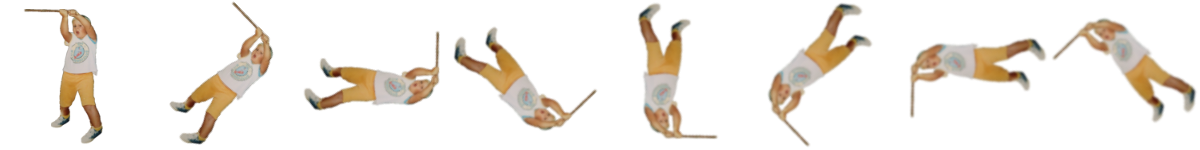
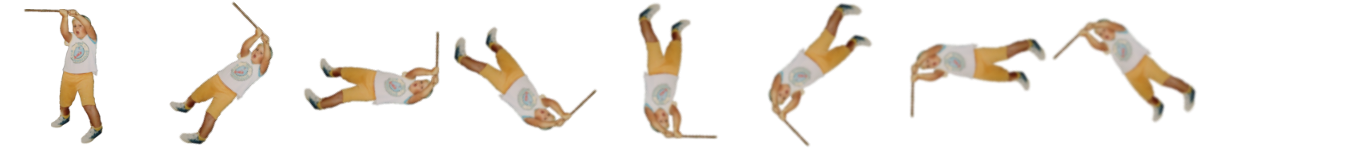
player blinks when invincible, speed increases as game progresses

Changed region(s): [[0.1233, 0.0267, 1.0, 0.96], [0.0, 0.0533, 0.0925, 0.96], [0.74, 0.6133, 0.7708, 0.7733]]

diff --git a/lib/player.js b/lib/player.js
@@ -17,35 +17,36 @@
     this.candies = 0;
     this.lives = 5;
     this.frame = 0;
+    this.maxSpeed = 4;
 
     this.power = function(impulse) {
        switch(impulse) {
         case 'up':
-          if (this.vel[1] > -8 && this.vel[1] <= 0) {
-            this.vel[1] += -2;
+          if (this.vel[1] > -(this.maxSpeed) && this.vel[1] <= 0) {
+            this.vel[1] += -(this.maxSpeed/4.0);
           } else if (this.vel[1] > 0) {
-            this.vel[1] += -4;
+            this.vel[1] += -(this.maxSpeed/2);
           }
           break;
         case 'down':
-          if (this.vel[1] < 8 && this.vel[1] >= 0) {
-            this.vel[1] += 2;
+          if (this.vel[1] < this.maxSpeed && this.vel[1] >= 0) {
+            this.vel[1] += (this.maxSpeed/4.0);
           } else if (this.vel[1] < 0) {
-            this.vel[1] += 4;
+            this.vel[1] += (this.maxSpeed/2);
           }
           break;
         case 'left':
-          if (this.vel[0] > -8 && this.vel[0] <= 0) {
-            this.vel[0] += -2;
+          if (this.vel[0] > -this.maxSpeed && this.vel[0] <= 0) {
+            this.vel[0] += -(this.maxSpeed/4.0);
           } else if (this.vel[0] > 0) {
-            this.vel[0] += -4;
+            this.vel[0] += -(this.maxSpeed/2);
           }
           break;
         case 'right':
-          if (this.vel[0] < 8 && this.vel[0] >= 0) {
-            this.vel[0] += 2;
+          if (this.vel[0] < this.maxSpeed && this.vel[0] >= 0) {
+            this.vel[0] += (this.maxSpeed/4.0);
           } else if (this.vel[0] < 0) {
-            this.vel[0] += 4;
+            this.vel[0] += (this.maxSpeed/2);
           }
           break;
       }
@@ -55,19 +56,34 @@
       if (this.candies >= 2) {
         this.spin();
         this.swinging = true;
-        var player = this;
-        setTimeout(function() { player.swinging = false; }, 1000);
         this.candies -= 2;
+        var player = this;
+        setTimeout(function() {
+          player.swinging = false;
+          player.game.giveCandies();
+        }, 401);
       }
     };
     
     this.spin = function() {
       var player = this;
       var increaseFrame = function() {
-          player.frame = (player.frame + 1) % 8;
-        };
-      for (i = 0; i < 16; i++){
-        setTimeout(increaseFrame, (50 * i));
+        player.frame = (player.frame + 1) % 8;
+      };
+      for (var i = 0; i < 16; i++){
+        setTimeout(increaseFrame, (25 * i));
+      }
+    };
+    
+    this.blink = function() {
+      var player = this;
+      var j = 0;
+      var setFrame = function() {
+        j++;
+        player.frame = 9 * (j%2);
+      };
+      for (var i = 0; i < 16; i++){
+        setTimeout(setFrame, (200 * i));
       }
     };
 
@@ -75,6 +91,8 @@
       if (this.swinging) {
         pinata.remove();
         this.game.addCandies(2);
+        this.maxSpeed += 2;
+        this.game.increaseSpeed();
       } else if (!this.invincible) {
         this.die();
       }
@@ -90,6 +108,10 @@
       this.vel = [0,0];
       this.makeInvincible();
       this.lives--;
+      if (this.candies > 0) {
+        this.candies--;
+      }
+      this.game.giveCandies();
       if (this.lives <= 0) {
         this.game.gameOver = true;
       }
@@ -97,7 +119,7 @@
 
     this.makeInvincible = function() {
       this.invincible = true;
-      // this.blink();
+      this.blink();
       var player = this;
       setTimeout(function() { player.invincible = false; }, 3000 );
     };

diff --git a/lib/game.js b/lib/game.js
@@ -10,6 +10,7 @@
     this.player = new Pinatas.Player({ pos: [this.DIM_X/2, this.DIM_Y/2], vel: [0,0], game: this });
     this.pinatas = [];
     this.candies = [];
+    this.pendingCandies = 0;
     this.addPinatas();
     this.addCandies(2);
     this.gameOver = false;
@@ -22,14 +23,35 @@
   };
   
   Game.prototype.addCandies = function(n) {
-    for(i = 0; i < n; i++) {
+    for(var i = 0; i < n; i++) {
       this.candies.push(new Pinatas.Candy({ pos: this.randomPosition(), game: this }));
     }
   };
-
+  
+  Game.prototype.increaseSpeed = function() {
+    for (var i = 0; i < this.pinatas.length; i++) {
+      this.pinatas[i].vel[0] *= 1.5;
+      this.pinatas[i].vel[1] *= 1.5;
+    }
+  };
+  
+  Game.prototype.giveCandies = function() {
+    var allCandies = this.candies.length + this.player.candies + this.pendingCandies;
+    if (allCandies < 2) {
+      this.pendingCandies = 2 - allCandies;
+      var game = this;
+      var addCandies = function () {
+        game.addCandies(1);
+        game.pendingCandies -= 1;
+      };
+      for (var q = 1; q <= this.pendingCandies; q++) {
+        setTimeout(addCandies, 5000 * q);
+      }
+    }
+  };
 
   Game.prototype.allObjects = function() {
-    return this.pinatas.concat(this.candies).concat([this.player]);
+    return this.candies.concat(this.pinatas).concat([this.player]);
   };
 
   Game.prototype.checkCollisions = function() {

diff --git a/lib/gameView.js b/lib/gameView.js
@@ -11,17 +11,19 @@
   };
 
   GameView.prototype.start = function() {
-    var gameView = this;
+    var game = this.game;
+    var drawing = this.drawing;
     this.bindKeyHandlers();
-      setInterval(function() {
-        gameView.game.draw(gameView.drawing);
-        gameView.game.step();
-        gameView.game.keepScore();
-      }, 20);
+    setInterval(function() {
+      game.draw(drawing);
+      game.step();
+      game.keepScore();
+    }, 20);
+    
   };
 
   GameView.prototype.bindKeyHandlers = function() {
-    var player = this.game.player
+    var player = this.game.player;
     key('up', function() { player.power('up') });
     key('down', function() { player.power('down') });
     key('left', function() { player.power('left') });

diff --git a/lib/util.js b/lib/util.js
@@ -18,4 +18,5 @@
 
     return [x, y];
   };
+  
 })();
